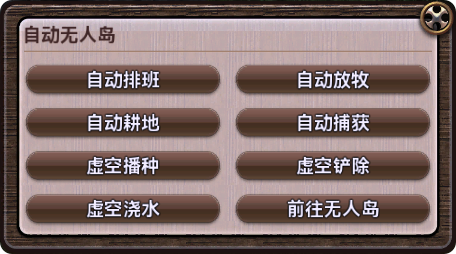
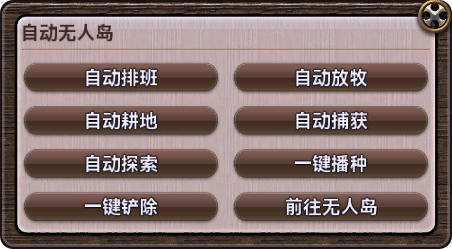
扩展收录分类并优化字体选择初始化
新增详细地图、秘籍、传承录、战果记录、灵魂碎晶等收录分类，保留既有枚举值。
将字体列表生成延迟到展开选择器时，减少设置页打开时的初始化开销。
允许派生模块覆盖稳定模块名，并更新无人岛功能预览图。

Changed region(s): [[0.0, 0.0, 1.0, 1.0], [0.4646, 0.6747, 0.4956, 0.7028]]

diff --git a/Interface/Widgets/OmniFontSelector.cs b/Interface/Widgets/OmniFontSelector.cs
@@ -10,7 +10,6 @@ public static class OmniFontSelector
 {
     private static object? InstalledSnapshot;
     private static KeyValuePair<string, string>[] SortedFonts = [];
-    private static readonly StringComparer NameComparer = StringComparer.Create(CultureInfo.GetCultureInfo("zh-CN"), true);
 
     public static string GetPreviewText(string path, string defaultLabel, string defaultPath)
     {
@@ -30,16 +29,6 @@ public static class OmniFontSelector
 
     public static bool Draw(string id, ref string path, ref string search, string defaultLabel, string defaultPath, float width)
     {
-        var installed = FontManager.Instance().InstalledFonts;
-        if (!ReferenceEquals(InstalledSnapshot, installed))
-        {
-            SortedFonts = installed.Concat(OmniFonts.GameFonts)
-                .OrderBy(font => font.Value.Any(c => c is >= '\u3400' and <= '\u9fff') ? 0 : 1)
-                .ThenBy(font => font.Value, NameComparer)
-                .ThenBy(font => font.Key, StringComparer.Ordinal)
-                .ToArray();
-            InstalledSnapshot = installed;
-        }
         var isDefault = string.IsNullOrWhiteSpace(path) || string.Equals(path, defaultPath, StringComparison.OrdinalIgnoreCase);
         var label = GetPreviewText(path, defaultLabel, defaultPath);
         var maximum = OmniTheme.ClampWindowSize(ImGui.GetMainViewport().WorkSize - ImGui.GetStyle().WindowPadding * 2f);
@@ -48,6 +37,17 @@ public static class OmniFontSelector
         if (!OmniControls.BeginCombo(id, label, width))
         {
             return false;
+        }
+
+        var installed = FontManager.Instance().InstalledFonts;
+        if (!ReferenceEquals(InstalledSnapshot, installed))
+        {
+            SortedFonts = installed.Concat(OmniFonts.GameFonts)
+                .OrderBy(font => font.Value.Any(c => c is >= '\u3400' and <= '\u9fff') ? 0 : 1)
+                .ThenBy(font => font.Value, StringComparer.Create(CultureInfo.GetCultureInfo("zh-CN"), true))
+                .ThenBy(font => font.Key, StringComparer.Ordinal)
+                .ToArray();
+            InstalledSnapshot = installed;
         }
 
         var changed = false;

diff --git a/Game/Collections/CollectionModels.cs b/Game/Collections/CollectionModels.cs
@@ -18,7 +18,16 @@ public enum CollectionType
     BlueMageSpell = 11,
     BlindBox = 12,
     Relic = 13,
-    Bestiary = 14
+    Bestiary = 14,
+    RidingMap = 15,
+    SecretRecipeBook = 16,
+    FolkloreTome = 17,
+    FacePaint = 18,
+    MahjongVoice = 19,
+    IslandLandmark = 20,
+    FieldNote = 21,
+    OccultRecord = 22,
+    SoulShard = 23
 }
 
 public enum CollectionSourceCategory

diff --git a/Module/Abstractions/ModuleBase.cs b/Module/Abstractions/ModuleBase.cs
@@ -14,12 +14,7 @@ public abstract class ModuleBase : IDisposable
 
     internal Action? SaveHostConfig { get; set; }
 
-    protected ModuleBase()
-    {
-        ModuleName = GetType().Name;
-    }
-
-    public string ModuleName { get; }
+    public virtual string ModuleName => GetType().Name;
 
     public bool IsEnabled { get; private set; }
 
